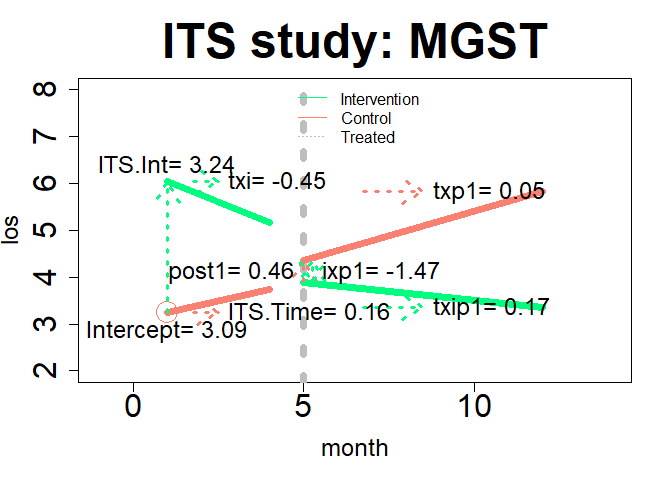
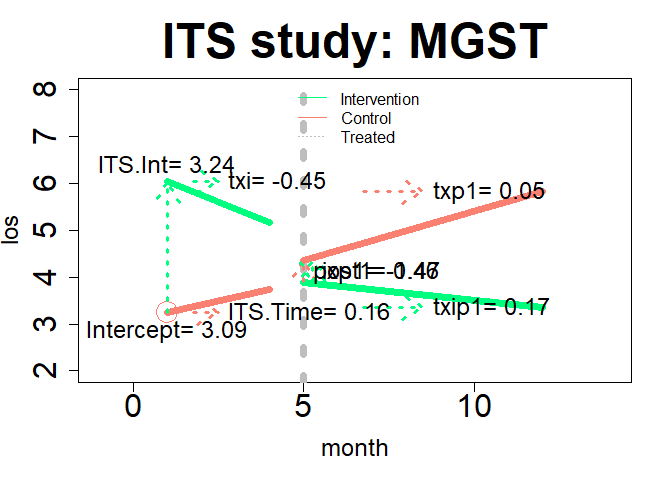
plot.assess: Coefficient value text position

Changed region(s): [[0.25, 0.5312, 0.4375, 0.5938], [0.4688, 0.5312, 0.6562, 0.5938]]

diff --git a/README.md b/README.md
@@ -892,9 +892,11 @@ plot(im21, "ITS", add.legend="top", xlim=c(-1, 14), ylim=c(2, 8),
 
 <img src="man/figures/README-revITS3-1.png" width="100%" />
 
+Using all plot options
+
 ``` r
-plot(im22, "ITS", add.legend="top", xlim=c(-1, 14), ylim=c(2, 8), 
-     main="ITS study: MGMT", col=c("dodgerblue","goldenrod"), lwd=7, cex=3, cex.axis=2, cex.lab=1.5,  cex.main=3, arrow=TRUE, xshift=c(0, 0), cex.text=.75, coefs=TRUE, round.c=2 )
+plot(im22, "ITS", add.legend="top", xlim=c(-.5, 13), ylim=c(2, 8), 
+     main="ITS study: MGMT", col=c("dodgerblue","goldenrod"), lwd=7, cex=3, cex.axis=2, cex.lab=1.5,  cex.main=3, arrow=TRUE, xshift=c(0, .5), cex.text=1.25, coefs=TRUE, round.c=2, pos.text= list("txp1"=3, "post2"=4))
 ```
 
 <img src="man/figures/README-revITS4-1.png" width="100%" />
